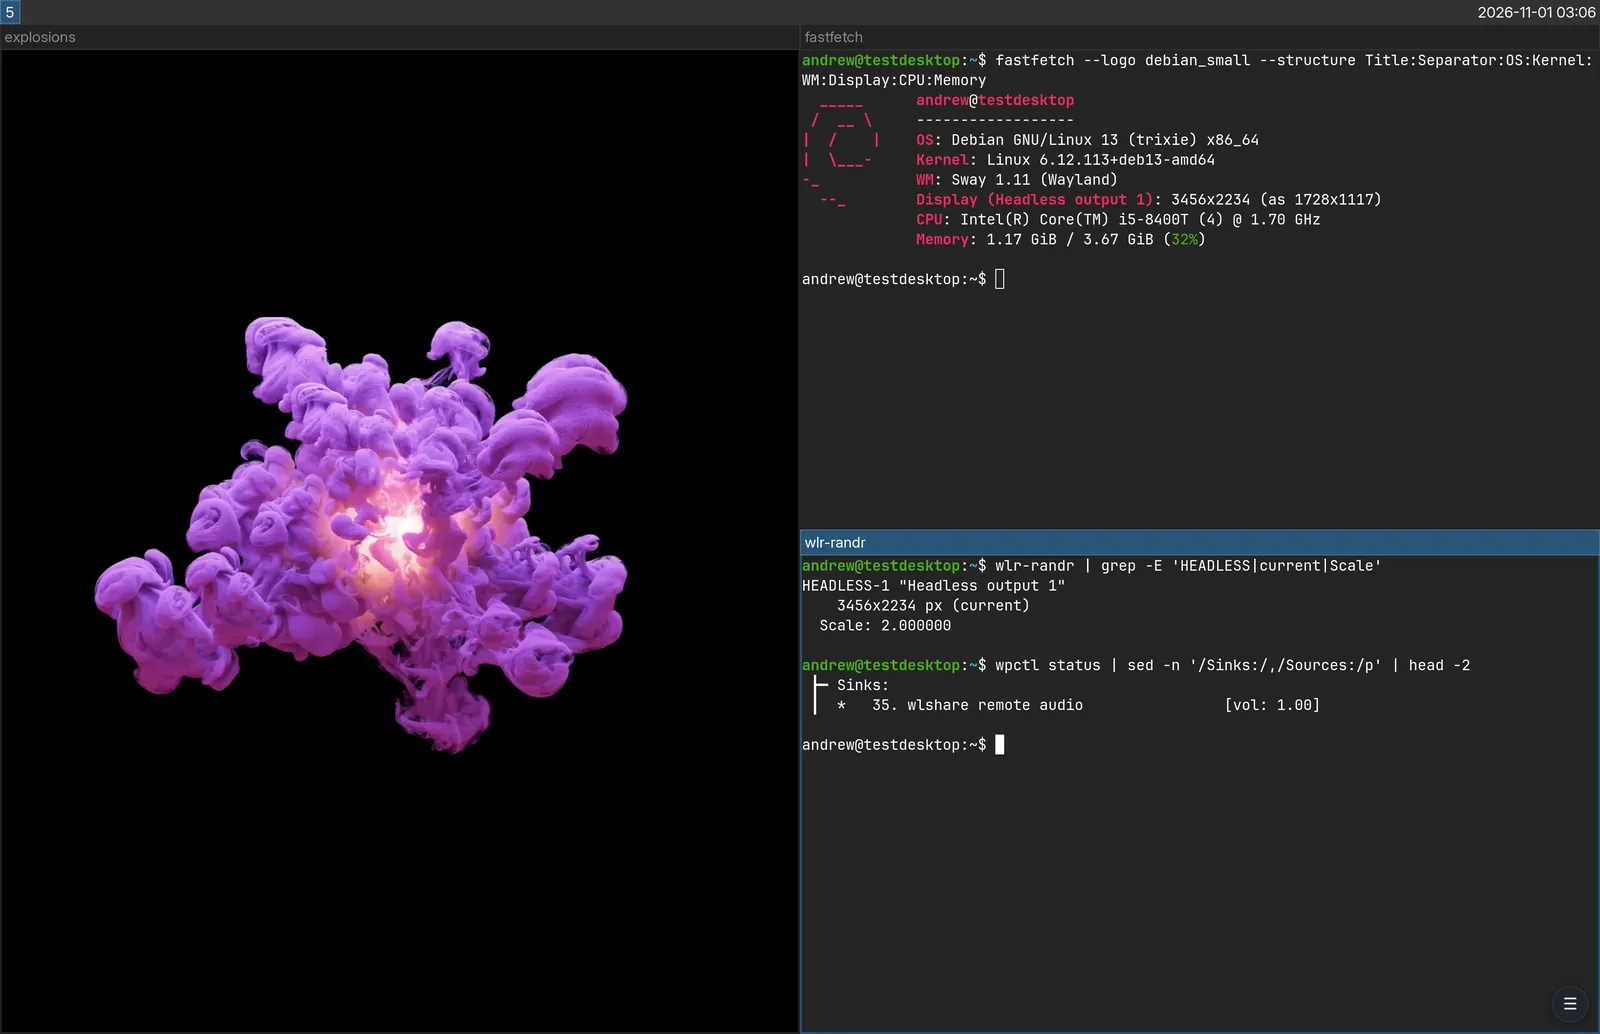
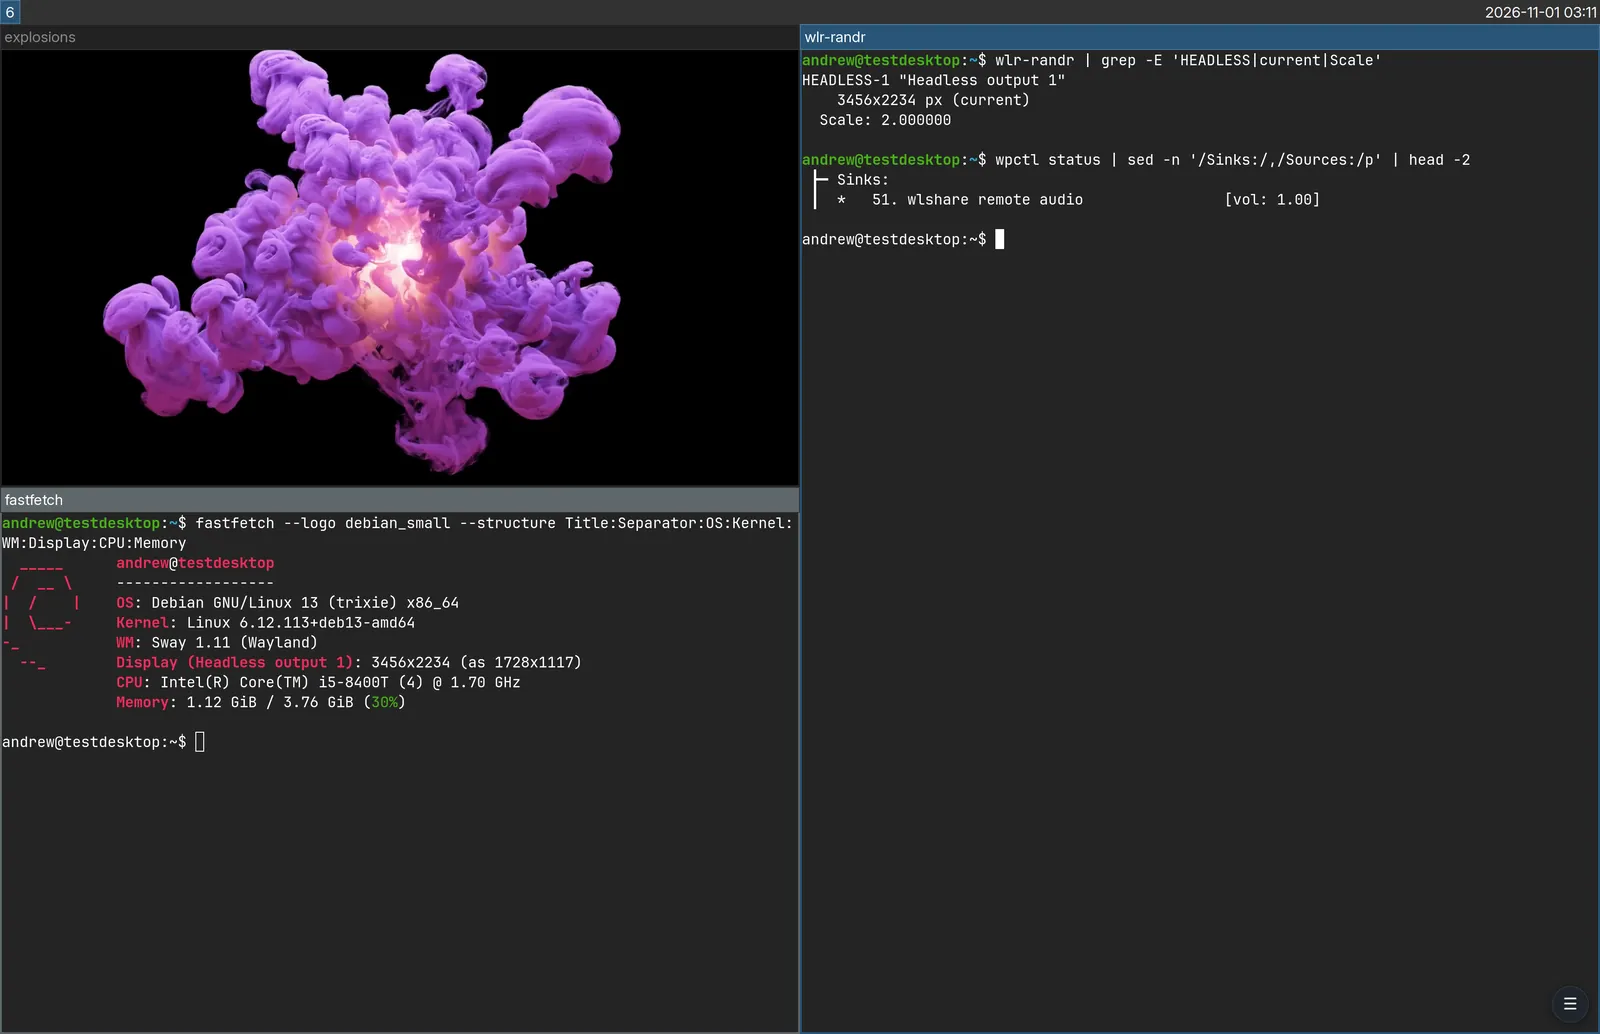
Lay the sway desktop out so plain VNC shows its bar and the video whole
Scrolled to the video, the plain VNC still lost sway's bar. The desktop is
now laid out with the video in its top-left quarter, so plain VNC shows
that quarter unscrolled, bar, title and the whole explosion twice the
size, and the 2x still beside it is retaken from the same paused frame.
The captions are back to the quarter in the window, in each locale.

diff --git a/src/wlshare/zh-TW.tsx b/src/wlshare/zh-TW.tsx
@@ -179,7 +179,7 @@ const text: WlshareText = {
               { name: "wlshare-sway", caption: "設定子類型：縮放比例 2 的輸出以 2x 顯示，完整呈現在視窗中。" },
               {
                 name: "wlshare-plain-vnc",
-                caption: "不設定子類型：同樣的像素以 1x 顯示，尺寸變為兩倍：捲動到影片處，視窗中只看得到桌面的四分之一。",
+                caption: "不設定子類型：同樣的像素以 1x 顯示，尺寸變為兩倍，視窗中只看得到桌面的四分之一。",
               },
             ]}
           />

diff --git a/src/wlshare/zh-CN.tsx b/src/wlshare/zh-CN.tsx
@@ -165,7 +165,7 @@ const text: WlshareText = {
               { name: "wlshare-sway", caption: "设置子类型：缩放为 2 的输出按 2x 显示，完整显示在窗口中。" },
               {
                 name: "wlshare-plain-vnc",
-                caption: "不设置：同样的像素按 1x 显示，尺寸变为两倍：滚动到视频处，窗口中只能显示桌面的四分之一。",
+                caption: "不设置：同样的像素按 1x 显示，尺寸变为两倍，窗口中只能显示桌面的四分之一。",
               },
             ]}
           />

diff --git a/src/guides/wlshare/zh-CN.tsx b/src/guides/wlshare/zh-CN.tsx
@@ -439,7 +439,7 @@ layout = "swayvnc"`}</code>
                 name: "wlshare-plain-vnc",
                 caption: (
                   <>
-                    同一桌面作为普通 VNC，没有 <code>subtype = "wlshare"</code>：其像素按 1x 显示，尺寸变为两倍：滚动到视频处，窗口中只能显示四分之一。
+                    同一桌面作为普通 VNC，没有 <code>subtype = "wlshare"</code>：其像素按 1x 显示，尺寸变为两倍，窗口中只能显示四分之一。
                   </>
                 ),
               },

diff --git a/src/wlshare/en.tsx b/src/wlshare/en.tsx
@@ -187,7 +187,7 @@ const text: WlshareText = {
               { name: "wlshare-sway", caption: "With the subtype: the scale 2 output at 2x, whole in the window." },
               {
                 name: "wlshare-plain-vnc",
-                caption: "Without it: the same pixels at 1x, twice the size: scrolled to the video, the window holds a quarter of the desktop.",
+                caption: "Without it: the same pixels at 1x, twice the size, a quarter of the desktop in the window.",
               },
             ]}
           />

diff --git a/src/guides/wlshare/zh-TW.tsx b/src/guides/wlshare/zh-TW.tsx
@@ -491,7 +491,7 @@ layout = "swayvnc"`}</code>
                 caption: (
                   <>
                     同一個桌面以一般 VNC 顯示，不設定 <code>subtype = "wlshare"</code>：其像素以 1x
-                    顯示，尺寸變為兩倍：捲動到影片處，視窗中只看得到四分之一。
+                    顯示，尺寸變為兩倍，視窗中只看得到四分之一。
                   </>
                 ),
               },

diff --git a/src/guides/wlshare/en.tsx b/src/guides/wlshare/en.tsx
@@ -512,7 +512,7 @@ layout = "swayvnc"`}</code>
                 caption: (
                   <>
                     The same desktop as plain VNC, without <code>subtype = "wlshare"</code>: its pixels at 1x, twice
-                    the size: scrolled to the video, the window holds a quarter of it.
+                    the size, a quarter of it in the window.
                   </>
                 ),
               },
